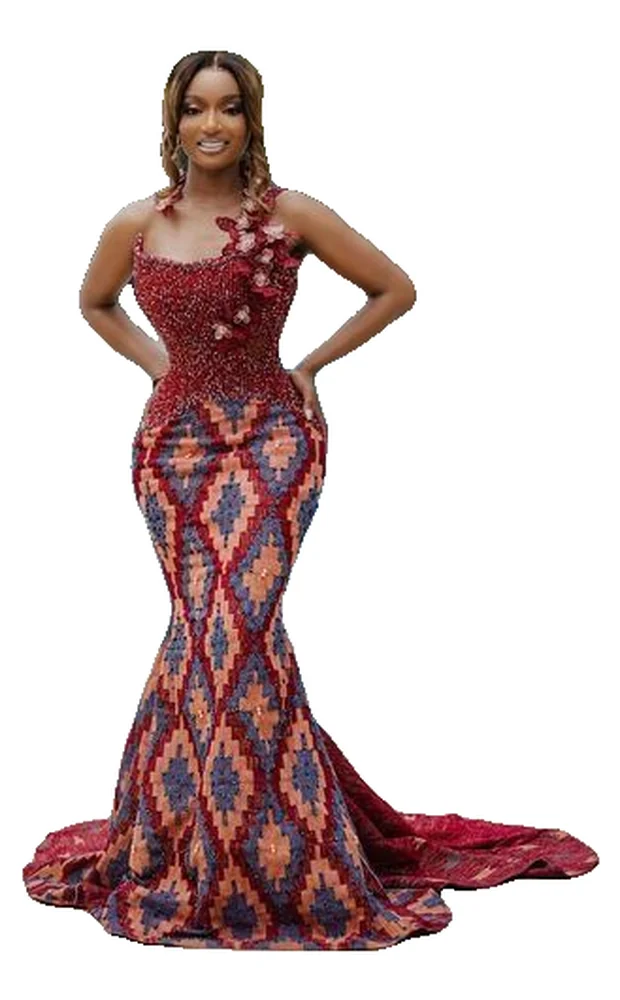
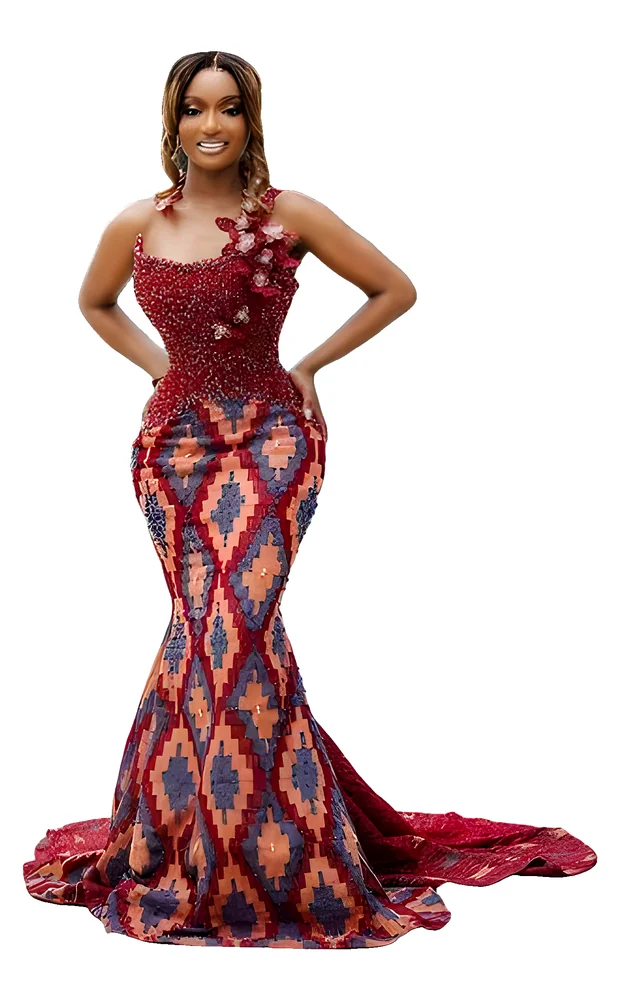
Enhance the Ruby Kente Mermaid photo
The original was only 480x598. Upscale it 4x with Real-ESRGAN, lift
exposure and colour slightly, then cut it out onto white again. Adds
scripts/enhance_photo.py; the untouched original is kept in
assets/source/originals/.

Claude-Session: https://claude.ai/code/session_012gieGybiP1uTPRKhRSaKYA

Changed region(s): [[0.0306, 0.031, 0.9806, 0.961], [0.6435, 0.279, 0.6742, 0.31]]

diff --git a/scripts/enhance_photo.py b/scripts/enhance_photo.py
@@ -1,0 +1,46 @@
+#!/usr/bin/env python3
+"""Sharpen and enlarge a small or soft shop photo before it is cut out.
+
+    python3 scripts/enhance_photo.py assets/source/originals/<photo> path/to/RealESRGAN_x4plus.pth
+
+Upscales 4x with Real-ESRGAN (weights: github.com/xinntao/Real-ESRGAN releases, BSD-3-Clause),
+gently lifts exposure and colour, and writes a PNG with the same name into assets/source/products/,
+ready for scripts/cutout_products.py. Needs torch, spandrel and Pillow.
+"""
+import sys, pathlib
+import numpy as np
+import torch
+from PIL import Image, ImageEnhance, ImageFilter
+from spandrel import ModelLoader
+
+ROOT = pathlib.Path(__file__).resolve().parent.parent
+src, weights = pathlib.Path(sys.argv[1]), sys.argv[2]
+BRIGHTNESS, CONTRAST, COLOUR = float(sys.argv[3]) if len(sys.argv) > 3 else 1.12, 1.04, 1.06
+TILE, PAD = 192, 16
+
+model = ModelLoader().load_from_file(weights).eval()
+scale = model.scale
+img = np.asarray(Image.open(src).convert("RGB")).astype(np.float32) / 255
+h, w, _ = img.shape
+out = np.zeros((h * scale, w * scale, 3), np.float32)
+
+# upscale in overlapping tiles so memory stays small
+with torch.no_grad():
+    for y in range(0, h, TILE):
+        for x in range(0, w, TILE):
+            y0, x0 = max(y - PAD, 0), max(x - PAD, 0)
+            y1, x1 = min(y + TILE + PAD, h), min(x + TILE + PAD, w)
+            t = torch.from_numpy(img[y0:y1, x0:x1]).permute(2, 0, 1)[None]
+            r = model(t)[0].permute(1, 2, 0).clamp(0, 1).numpy()
+            oy, ox = (y - y0) * scale, (x - x0) * scale
+            th, tw = (min(y + TILE, h) - y) * scale, (min(x + TILE, w) - x) * scale
+            out[y * scale:y * scale + th, x * scale:x * scale + tw] = r[oy:oy + th, ox:ox + tw]
+
+big = Image.fromarray((out * 255).round().astype(np.uint8))
+big = ImageEnhance.Brightness(big).enhance(BRIGHTNESS)
+big = ImageEnhance.Contrast(big).enhance(CONTRAST)
+big = ImageEnhance.Color(big).enhance(COLOUR)
+big = big.filter(ImageFilter.UnsharpMask(radius=1.2, percent=40, threshold=2))
+dest = ROOT / "assets/source/products" / (src.stem + ".png")
+big.save(dest, optimize=True)
+print(f"{src.name} {w}x{h} -> {dest.relative_to(ROOT)} {big.width}x{big.height}")

diff --git a/README.md b/README.md
@@ -26,7 +26,7 @@ The hero expects a clip of the model on a plain white studio backdrop (generated
 
 ## Shop and orders
 
-`js/products.js` is the catalogue: add a dress by adding an object (name, price in GHS, lead time, photos). Shop photos are on a white background: put the original in `assets/source/products/` and run `python3 scripts/cutout_products.py <file>` (needs `pip install "rembg[cpu]"`) to get `assets/products/<file>.webp`. Leave `price` / `leadTime` as `null` and the card shows "Price on request" and no lead time.
+`js/products.js` is the catalogue: add a dress by adding an object (name, price in GHS, lead time, photos). Shop photos are on a white background: put the original in `assets/source/products/` and run `python3 scripts/cutout_products.py <file>` (needs `pip install "rembg[cpu]"`) to get `assets/products/<file>.webp`. If a photo is small or soft, first run `python3 scripts/enhance_photo.py assets/source/originals/<file> RealESRGAN_x4plus.pth` (AI 4x upscale with Real-ESRGAN, weights from github.com/xinntao/Real-ESRGAN releases), then cut out the result. Leave `price` / `leadTime` as `null` and the card shows "Price on request" and no lead time.
 
 "Get it tailored" (hero and cards) open the order sheet (`js/shop.js`): details, measurements (cm or in, with range checks), style photos (up to 5, shrunk on the phone before upload) and a review step. A half-finished form is kept in the browser.
 
